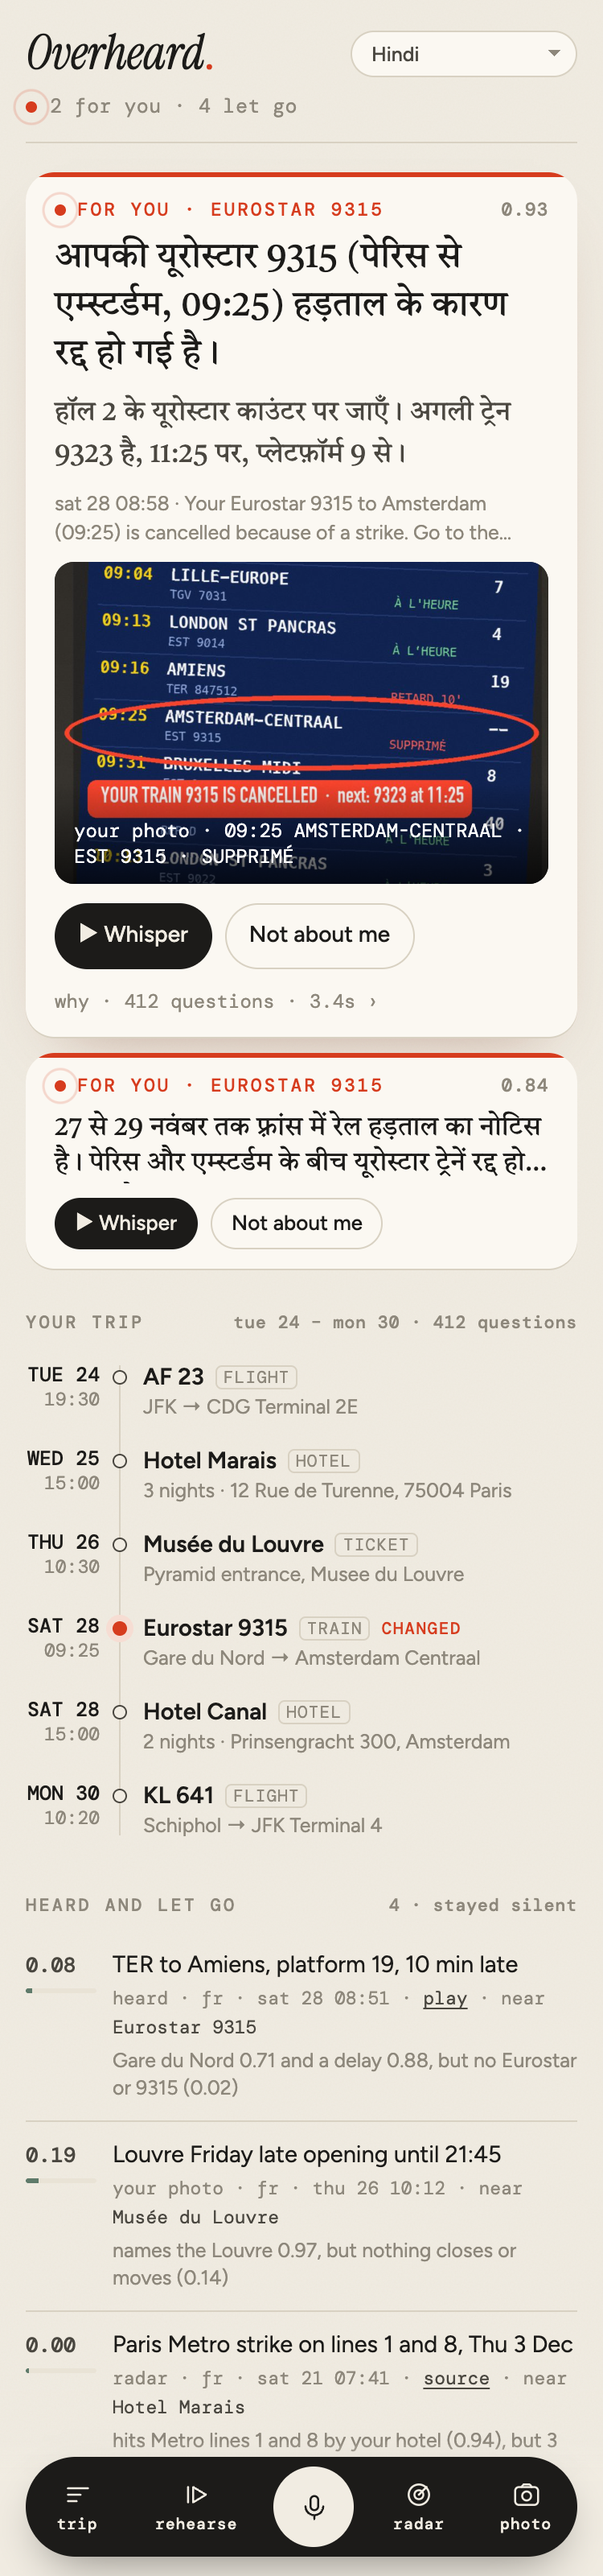
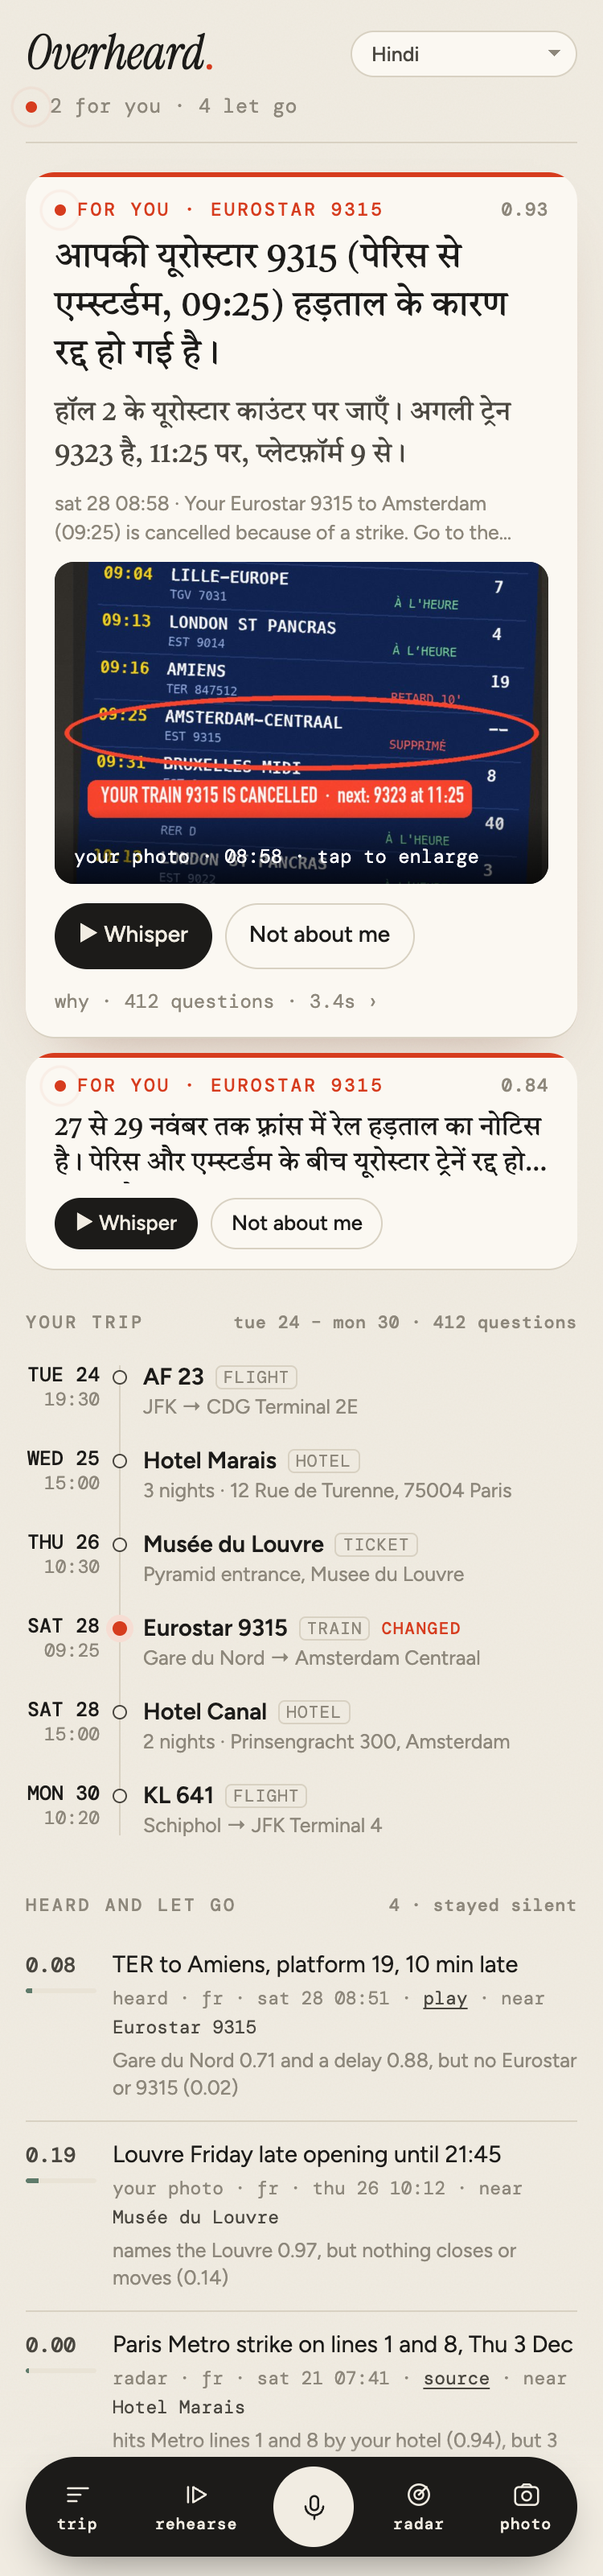
Ticket D: HTTPS check over a Cloudflare quick tunnel, screenshot retaken

Changed region(s): [[0.1227, 0.2812, 0.828, 0.3438]]

diff --git a/progress/D.md b/progress/D.md
@@ -1,6 +1,6 @@
 # Ticket D: phone UI and router (fixture mode)
 
-Status at 15:48 ET: built and checked on localhost. The ngrok check is blocked because this Mac has no ngrok auth token.
+Status at 15:52 ET: done. Both checks pass, the second over an HTTPS Cloudflare quick tunnel (it replaces ngrok for this ticket).
 
 ## Done (times ET)
 - 15:35 to 15:38: read SPEC, TICKETS, GLOSSARY and the subway page. Drew the proof photo with Pillow and voiced the Hindi whispers and two announcements with macOS `say` (`web/abroad/make_media.py`, no Gemini calls).
@@ -40,12 +40,49 @@ GET  /feed after playback -> 13 events {'silent': 10, 'alert': 2, 'dismissed': 1
 ```
 Result: pass. Every route answers with the SPEC shape, and media names with path tricks get a 404.
 
-## Check 2: 375 px screenshot over ngrok HTTPS
-- `ngrok http 8010` fails: `authentication failed: This ngrok session is not authenticated`. No `ngrok.yml` and no `NGROK_AUTHTOKEN` on this Mac. Per the brief I did not sign up for anything.
-- Fix for whoever has the account: save the token with the CLI's `config add-authtoken <token>` subcommand.
-  Then run `ngrok http 8010` and rerun the screenshot against `<https-url>/abroad`.
-- Meanwhile `docs/abroad_375.png` is taken from `http://localhost:8010/abroad`. It shows the timeline of 6 bookings, 3 receipts above the dock (4 in the feed), the board alert with the circled photo, Whisper and "Not about me" buttons, and the second alert.
-- Headless Chrome clamps `--window-size=375,...` to a 500 px layout viewport (measured `innerWidth=500`), so that command cannot give a phone layout. `web/abroad/shot.py` emulates a 375 px mobile viewport over the DevTools protocol instead (measured `375x1600 scrollW=375`): `.venv/bin/python web/abroad/shot.py http://localhost:8010/abroad docs/abroad_375.png`.
+## Check 2: 375 px screenshot over HTTPS
+ngrok had no auth token on this Mac (`authentication failed: This ngrok session is not authenticated`). The orchestrator replaced it with a Cloudflare quick tunnel, which needs no account; the user installed cloudflared.
+
+Commands:
+```
+OVERHEARD_FIXTURE=1 .venv/bin/uvicorn abroad_dev:app --port 8010
+cloudflared tunnel --url http://localhost:8010        # prints https://<random>.trycloudflare.com
+curl -s -X POST <url>/api/abroad/itinerary/demo
+.venv/bin/python web/abroad/shot.py <url>/abroad docs/abroad_375.png
+```
+This run used `https://public-nascar-calculations-kde.trycloudflare.com` (a quick tunnel, gone when the process stops). DNS took about 30 s to resolve after the URL printed.
+
+Route check over the HTTPS URL:
+```
+GET  /abroad -> 200 text/html; charset=utf-8
+POST /itinerary/demo -> {id, traveller, home_lang, bookings, n_questions}
+    bookings [0] = {id, kind, title, operator, number, ref, start, end, from_place, to_place, city, country, langs, details, source}
+POST /itinerary/ingest -> {id, traveller, home_lang, bookings, n_questions}
+    bookings [0] = {id, kind, title, operator, number, ref, start, end, from_place, to_place, city, country, langs, details, source}
+POST /itinerary/gmail -> {id, traveller, home_lang, bookings, n_questions}
+    bookings [0] = {id, kind, title, operator, number, ref, start, end, from_place, to_place, city, country, langs, details, source}
+POST /itinerary/demo (reset) -> {id, traveller, home_lang, bookings, n_questions}
+    bookings [0] = {id, kind, title, operator, number, ref, start, end, from_place, to_place, city, country, langs, details, source}
+GET  /itinerary -> {id, traveller, home_lang, bookings, n_questions}
+    bookings [0] = {id, kind, title, operator, number, ref, start, end, from_place, to_place, city, country, langs, details, source}
+POST /lang -> {"lang":"Hindi"}
+POST /input -> {id, t, status, input}
+GET  /feed -> {itinerary_id, lang, fixture, events}
+    events [0] = {id, t, status, input}
+POST /radar -> {"n_items":3}
+POST /rehearse -> {"n_items":3}
+POST /dismiss -> {added}
+    added [0] = {id, booking_id, group, q}
+GET  /digest?today=2026-11-27 -> {date, itinerary_id, urgent, today, silent_count, receipts_sample}
+    urgent [0] = {id, t, status, input, verdict, alert}
+GET  /media/proof_train_ams.jpg -> 200 image/jpeg 130463B
+GET  /media/whisper_train_ams.m4a -> 200 audio/mp4 77798B
+GET  /media/..%2fserver.py (traversal) -> 404
+GET  /feed after playback -> 13 events {'silent': 10, 'alert': 2, 'dismissed': 1}
+```
+Screenshot result: `viewport 375x1600 scrollW=375`. I looked at `docs/abroad_375.png`: it shows the timeline of 6 bookings with Eurostar 9315 marked changed, 3 receipts above the dock (4 in the feed), the board alert with the circled photo, the Whisper and "Not about me" buttons, and the second alert.
+
+Why `shot.py` and not the Chrome command from the brief: headless Chrome clamps `--window-size=375,...` to a 500 px layout viewport (measured `innerWidth=500`), so the page would not lay out at phone width. `web/abroad/shot.py` emulates a 375 px mobile viewport over the DevTools protocol instead.
 
 ## Decisions
 - `POST /itinerary/demo`, `/ingest` and `/gmail` return the Itinerary with an extra top-level `n_questions`. `GET /itinerary` returns the same, or 404 before a trip is set.
@@ -60,7 +97,7 @@ Result: pass. Every route answers with the SPEC shape, and media names with path
 ## Known issues
 - Fixture alerts only carry Hindi translations. Picking English shows the English text; picking another language still shows Hindi until the engine translates live.
 - Auto-playing the whisper on a new alert needs a prior tap on the page (browser autoplay rules).
-- The mic button needs HTTPS on a phone, so it waits on ngrok.
+- The mic button needs HTTPS on a phone; use the tunnel URL, not localhost.
 
 ## For ticket F
 - Mount with `app.include_router(router)` from `overheard.api_abroad`, and add a `/abroad` route serving `web/abroad/index.html`.
